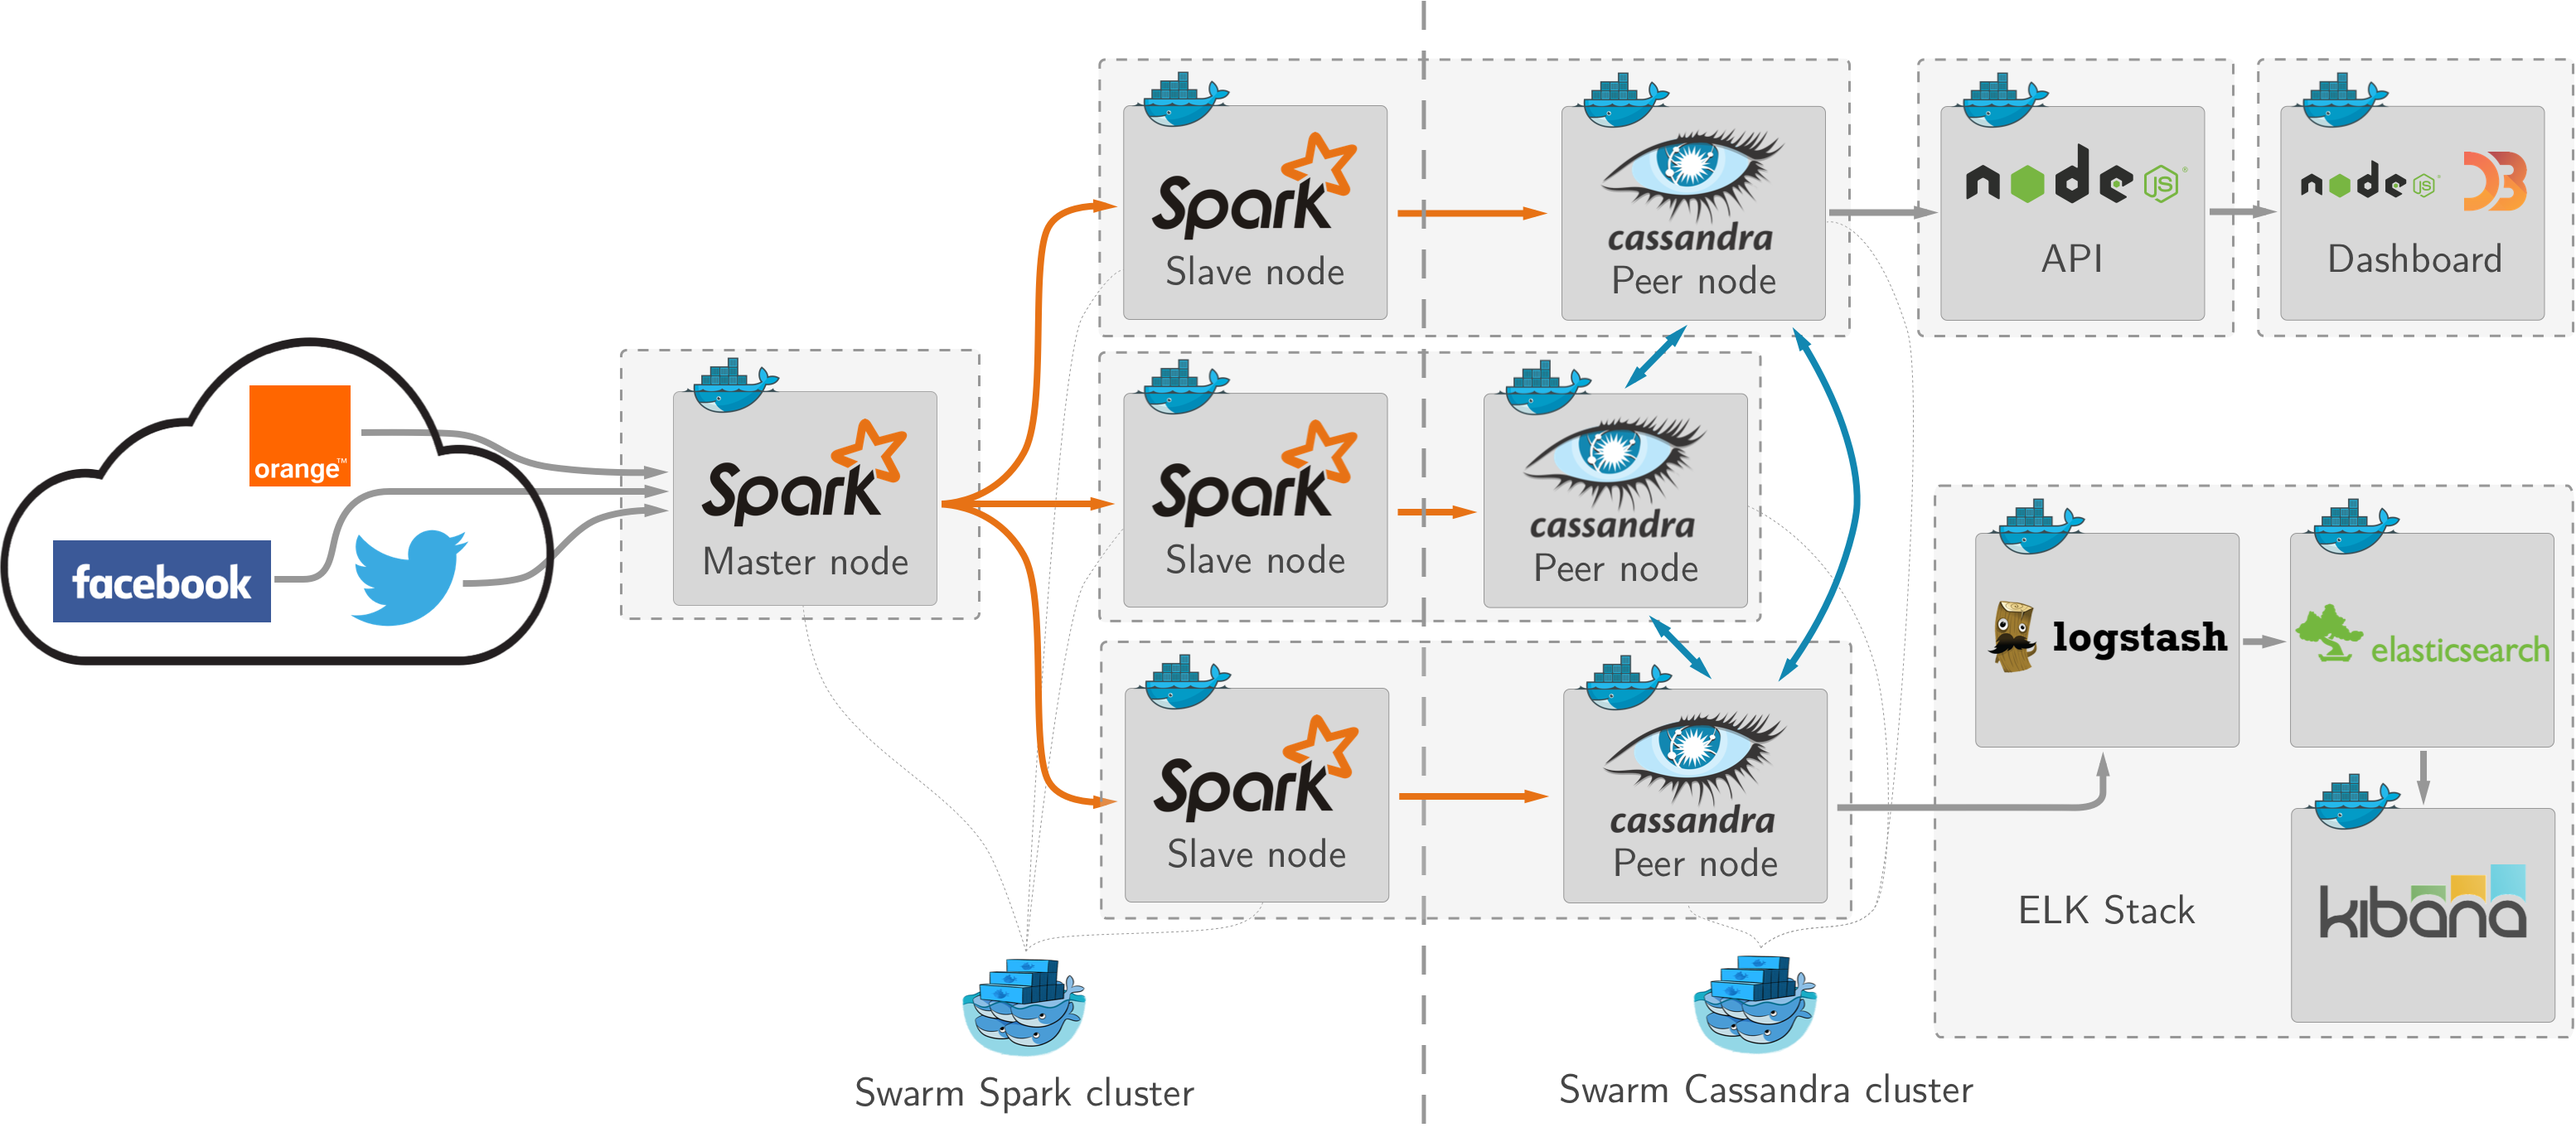
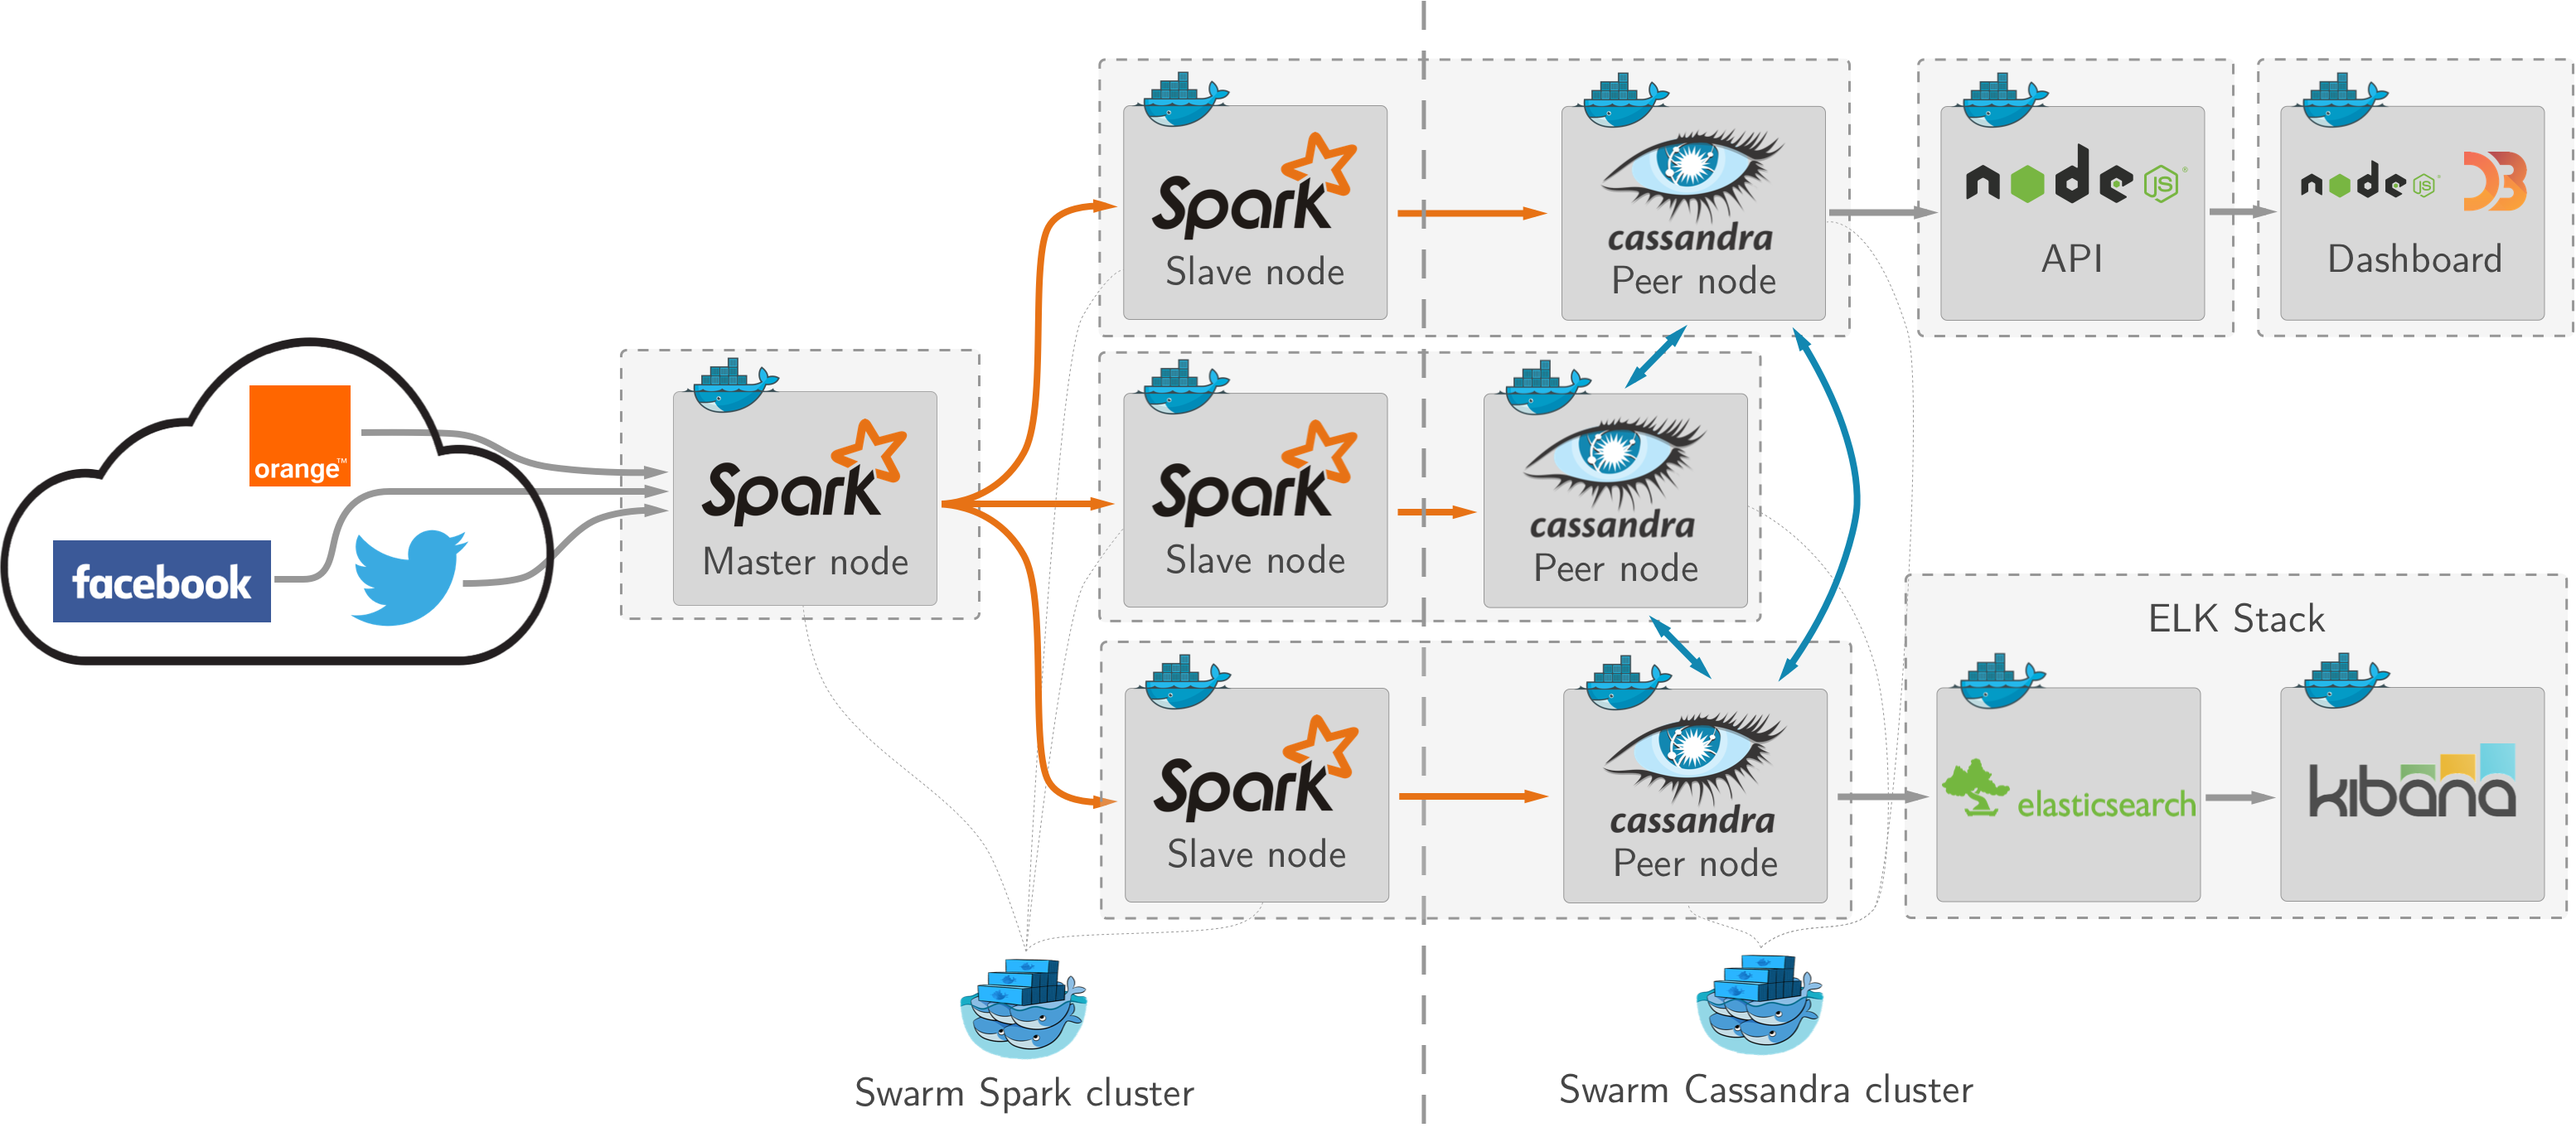
Remove Logstash from infra diagram

Changed region(s): [[0.7178, 0.4369, 1.0, 0.9049], [0.6554, 0.8425, 0.7178, 0.9361], [0.3745, 0.8425, 0.4369, 0.9361]]

diff --git a/main.tex b/main.tex
@@ -236,7 +236,7 @@ Along with this API, another \textsf{NodeJS} web server has been developed to se
 
 \subsection{ELK stack}
 
-In parallel, the \textsf{ElasticSearch} - \textsf{Logstash} - \textsf{Kibana} stack is tested as a turnkey solution to replace \textsf{Cassandra}, the API and the web dashboard. % à détailler
+In parallel, the \textsf{ElasticSearch} - \textsf{Logstash} - \textsf{Kibana} stack is tested as a turnkey solution to replace \textsf{Cassandra}, the API and the web dashboard.
 Each of the three parts of the ELK stack have a very specific role : 
 \begin{itemize}
 \item Elasticsearch manages the database and the requests to it.
@@ -244,14 +244,14 @@ Each of the three parts of the ELK stack have a very specific role :
 \item Kibana is the visualization tool, for creating nice diagrams andd graphs. It is a web application, in which the dashboards can diretly be created using visual programming.
 \end{itemize}
 
-The architecture used for integrating ELK tools in the project is shown on Figure \ref*{elk}.
+The architecture used for integrating ELK tools in the project is shown on Figure \ref*{infra}.
 
-\begin{figure}[h!]
-    \centering
-    \includegraphics[scale=0.12]{img/ELK_use.png}
-    \caption{ELK Stack place in Apache Spark architecture}
-    \label{elk}
-\end{figure}
+%\begin{figure}[h!]
+%    \centering
+%    \includegraphics[scale=0.12]{img/ELK_use.png}
+%    \caption{ELK Stack place in Apache Spark architecture}
+%    \label{elk}
+%\end{figure}
 
 Once Elacsticsearch has been filled with data treated by Spak, Kibana has access to this data and graphs interpreting those information can be created.
 
